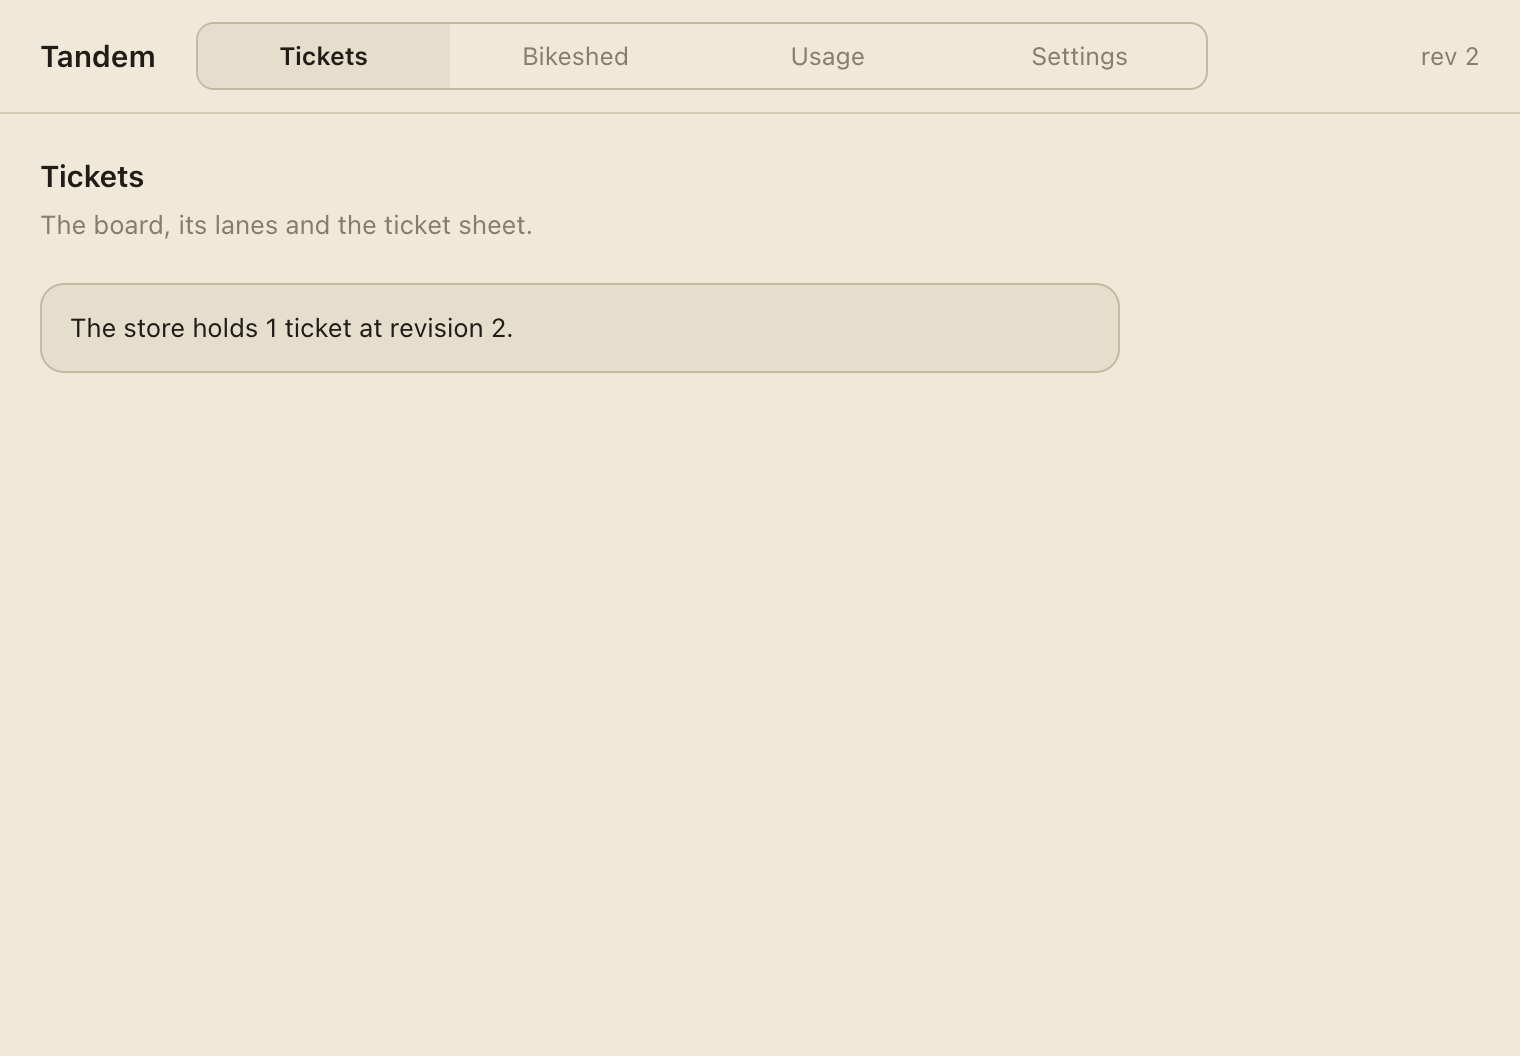
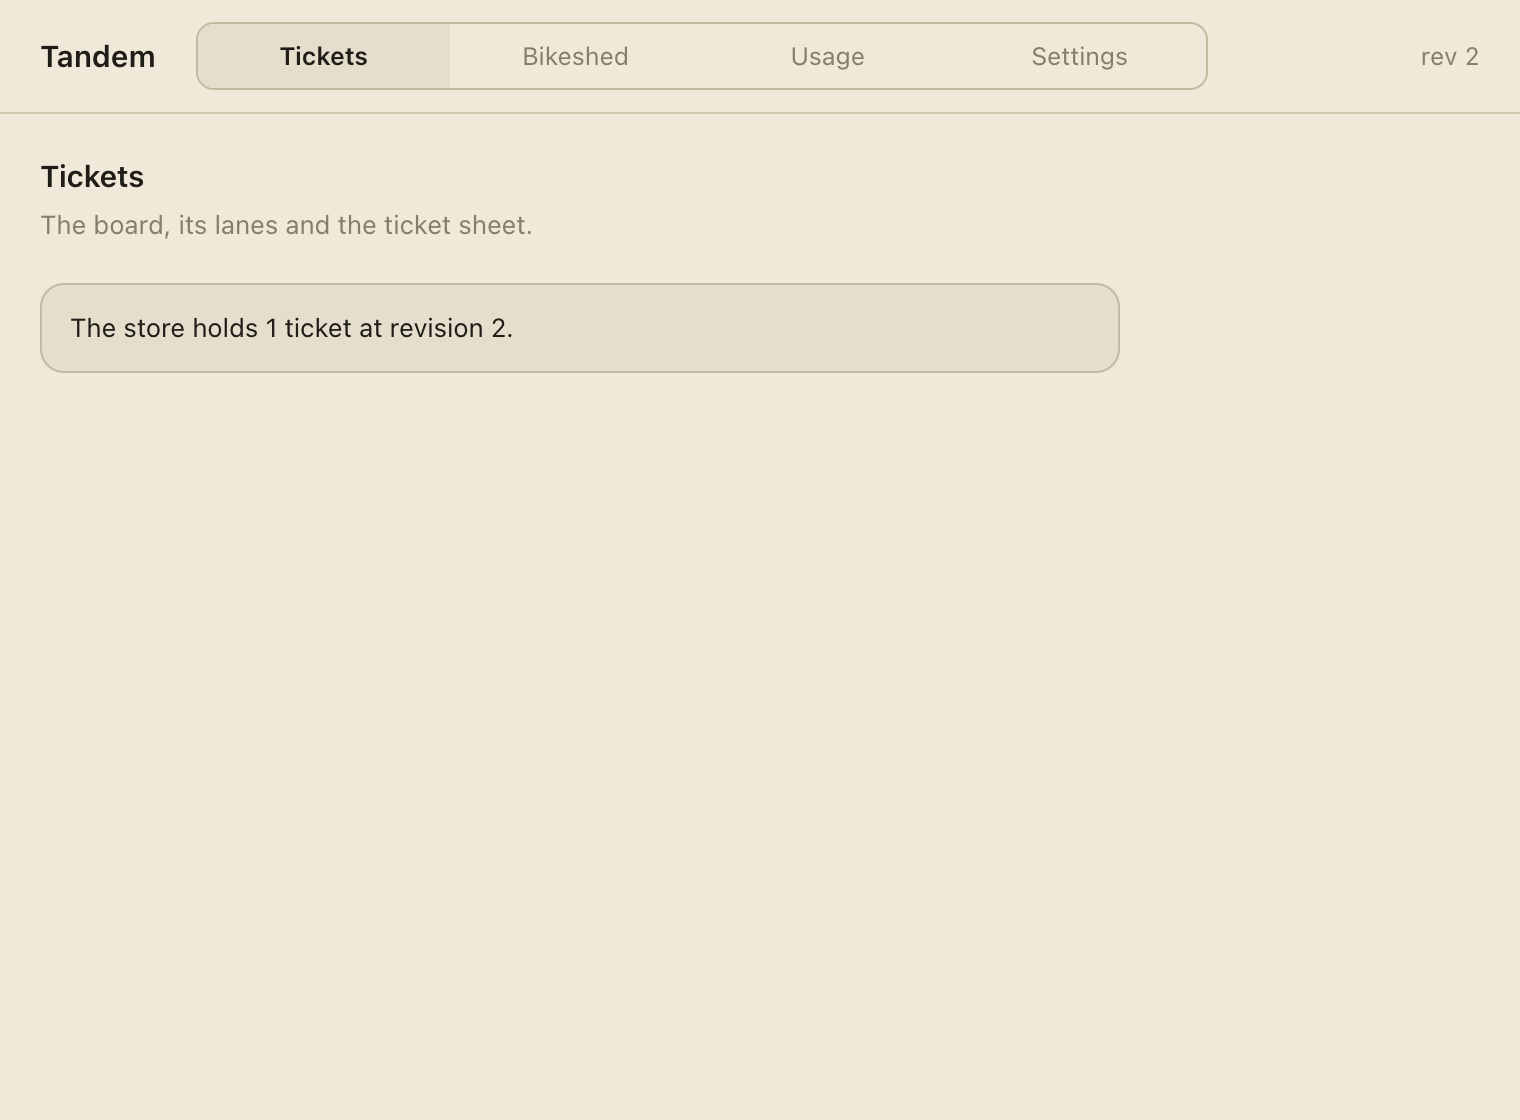
feat(shots): a Playwright suite photographs the real app
`npm run shots` builds the renderer, launches the Electron shell over the
workspace `tandem rpc` binary against the seeded home, asserts the scene and
writes its PNG. The shell's scene replaces the `TANDEM_SHOT` picture of the
window at the 760 pt floor, and its catalogue row is the run's own.

The window is the real one: one app per spec, content size at the floor, UTC
for anything that prints a local time. A deliberately broken selector fails
the spec, which is the red run this ticket asks for.

diff --git a/app/shots/app.ts b/app/shots/app.ts
@@ -1,0 +1,71 @@
+import { join } from 'node:path'
+
+import { _electron as electron, test as base, type Page } from '@playwright/test'
+
+import { seedPath } from './home'
+import { APP_ROOT, REPO_ROOT } from './roots'
+import type { Scene } from './scenes'
+
+/** The copy `globalSetup` seeds; the app never opens the committed home. */
+const SEEDED_HOME = seedPath(REPO_ROOT)
+
+function binaryPath(): string {
+  return join(REPO_ROOT, 'rust', 'target', 'debug', process.platform === 'win32' ? 'tandem.exe' : 'tandem')
+}
+
+/**
+ * A browser environment with the seed in it: the scratch home, the workspace
+ * binary, no `TANDEM_SHOT` (the spec drives the capture), and UTC, so a scene
+ * that prints a local time prints the same one on every machine.
+ */
+function seededEnv(): Record<string, string> {
+  const env: Record<string, string> = {}
+  for (const [key, value] of Object.entries(process.env)) {
+    if (value !== undefined) env[key] = value
+  }
+  delete env['ELECTRON_RENDERER_URL']
+  env['TANDEM_HOME'] = SEEDED_HOME
+  env['TANDEM_BIN'] = binaryPath()
+  env['TANDEM_SHOT'] = ''
+  env['TZ'] = 'UTC'
+  return env
+}
+
+/**
+ * One built app per spec, at the Swift window's 760 by 560 floor: the suite
+ * photographs the real shell over the real `rpc` child, not a mounted
+ * component. A spec asserts its scene and then calls `capture`.
+ */
+export const test = base.extend<{ window: Page }>({
+  window: async ({}, use) => {
+    const app = await electron.launch({
+      args: [
+        join(APP_ROOT, 'out', 'main', 'index.js'),
+        // The runner's container has no usable Chromium sandbox (app.yml).
+        ...(process.platform === 'linux' ? ['--no-sandbox'] : []),
+      ],
+      cwd: APP_ROOT,
+      env: seededEnv(),
+    })
+
+    try {
+      const window = await app.firstWindow()
+      await app.evaluate(({ BrowserWindow }) => {
+        BrowserWindow.getAllWindows()[0]?.setContentSize(760, 560)
+      })
+      await window.waitForSelector('.shell', { timeout: 30_000 })
+      await use(window)
+    } finally {
+      await app.close()
+    }
+  },
+})
+
+/** One scene, one PNG: the file the manifest names, as the spec asserted it. */
+export async function capture(window: Page, entry: Scene): Promise<void> {
+  await window.screenshot({
+    path: join(REPO_ROOT, 'docs', 'screenshots', entry.file),
+    animations: 'disabled',
+    caret: 'hide',
+  })
+}

diff --git a/app/tests/shots/shell.shots.ts b/app/tests/shots/shell.shots.ts
@@ -1,0 +1,21 @@
+import { expect } from '@playwright/test'
+
+import { capture, test } from '../../shots/app'
+import { scene } from '../../shots/scenes'
+
+/**
+ * The shell a human opens: the wordmark, the four kept tabs and the store
+ * revision the core answered over `rpc`, at the Swift window's floor.
+ */
+test('the shell at its 760 pt floor', async ({ window }) => {
+  await expect(window.locator('.shell__wordmark')).toHaveText('Tandem')
+
+  const tabs = window.locator('.tabs .tab')
+  await expect(tabs).toHaveCount(4)
+  await expect(tabs).toHaveText(['Tickets', 'Bikeshed', 'Usage', 'Settings'])
+  await expect(window.locator('.tabs .tab[aria-selected="true"]')).toHaveText('Tickets')
+
+  await expect(window.locator('.shell__revision')).toHaveText(/^rev \d+$/)
+
+  await capture(window, scene('shell'))
+})

diff --git a/app/playwright.config.ts b/app/playwright.config.ts
@@ -1,0 +1,21 @@
+import { defineConfig } from '@playwright/test'
+
+/**
+ * The screenshot suite (`docs/screenshots/README.md`, `docs/port.md`).
+ *
+ * One worker: every scene is one app and one picture, and the run's whole
+ * output is the committed catalogue, so scene order is the manifest's alone.
+ * `npm run shots` builds the renderer first; the rpc binary is `npm run
+ * binary` (CI builds it in its own step).
+ */
+export default defineConfig({
+  testDir: 'tests/shots',
+  testMatch: '**/*.shots.ts',
+  globalSetup: './shots/globalSetup.ts',
+  globalTeardown: './shots/globalTeardown.ts',
+  workers: 1,
+  timeout: 60_000,
+  expect: { timeout: 15_000 },
+  forbidOnly: process.env['CI'] !== undefined,
+  reporter: process.env['CI'] !== undefined ? [['github'], ['list']] : [['list']],
+})

diff --git a/app/shots/globalTeardown.ts b/app/shots/globalTeardown.ts
@@ -1,0 +1,18 @@
+import { rmSync } from 'node:fs'
+
+import { writeCatalogue } from './catalogue'
+import { seedPath } from './home'
+import { REPO_ROOT } from './roots'
+
+/**
+ * The catalogue is kept by the same run that takes the pictures, and the
+ * scratch home is dropped afterwards. A scene whose PNG is missing throws
+ * here, so a green run and a documented picture cannot disagree.
+ */
+export default function globalTeardown(): void {
+  try {
+    writeCatalogue({ repoRoot: REPO_ROOT })
+  } finally {
+    rmSync(seedPath(REPO_ROOT), { recursive: true, force: true })
+  }
+}

diff --git a/app/shots/globalSetup.ts b/app/shots/globalSetup.ts
@@ -1,0 +1,12 @@
+import { seedHome, seedPath, shotsSource } from './home'
+import { REPO_ROOT } from './roots'
+
+/**
+ * The run's seed, before any window opens: the named fixture home is checked
+ * against the rule and copied to the scratch path the specs read. A refusal
+ * here fails the whole run with no picture written.
+ */
+export default function globalSetup(): void {
+  const source = shotsSource(process.env, REPO_ROOT)
+  seedHome(source, seedPath(REPO_ROOT))
+}

diff --git a/docs/screenshots/README.md b/docs/screenshots/README.md
@@ -1,13 +1,42 @@
 # Screenshots
 
-The app, photographed. Each file is the running app's own window, captured in
-process (`NSApp.windows` → the key window → `cacheDisplay(in:to:)` → PNG) —
-`screencapture` has no Screen Recording permission on this Mac, so the app
-photographs itself instead.
+The app, photographed. Every picture here is the running app's own window,
+captured by a spec. `Scripts/shot.sh` photographs the Swift app and the
+Playwright suite photographs the port; the two never share a home.
 
-The tool is `Scripts/shot.sh` (with the small Objective-C rig it compiles and
-injects, `Scripts/shot.m`), and the script is the rule. No session hand-builds
-a rig; a picture is one command each:
+## The port's suite
+
+`app/tests/shots/*.shots.ts` is the rule: no session hand-builds a rig, and a
+picture is one scene of one spec. A run checks the home, copies it to a
+scratch seed, launches the built app at its 760 pt floor with `TZ=UTC`,
+asserts each scene, writes one PNG per scene into this folder, and rewrites the
+table below from `app/shots/scenes.ts`:
+
+    cd app
+    npm ci
+    npm run binary
+    TANDEM_SHOTS_HOME=../Fixtures/port/Home npm run shots
+
+`TANDEM_SHOTS_HOME` is required, and it must resolve under the repository's
+`Fixtures/`: a run that names no home is refused, and so is `~/.tandem` or any
+path outside `Fixtures/`. The app opens a scratch copy, never the committed
+home, so no run writes into the fixture. A failing spec fails the run, and the
+catalogue is rewritten only when every scene's picture exists, so a picture
+and its row cannot drift.
+
+CI runs the same command on the Linux runner under a virtual display
+(`.github/workflows/app.yml`), so a deliberately broken selector is a red job
+rather than a human reading a diff.
+
+| file | what it shows |
+| --- | --- |
+| `electron-shell.png` | the shell at its 760 pt floor: the wordmark, the four kept tabs (Tickets, Bikeshed, Usage, Settings) and the store revision read over `rpc` |
+
+## The Swift app, until the cutover
+
+The Swift app still ships until `v1.0.0` deletes it (`PRT-20`, `docs/port.md`),
+so its pictures are still taken by `Scripts/shot.sh` (with the Objective-C rig
+it compiles and injects, `Scripts/shot.m`), and this table is hand-kept:
 
     TANDEM_HOME=Fixtures/screenshots/Home Scripts/shot.sh list
     # pick a window id from the list, then:
@@ -15,21 +44,14 @@ a rig; a picture is one command each:
 
 `list` shows the running app's windows (id, size, title). The script refuses to
 run when `TANDEM_HOME` is unset or does not resolve to a home under the repo's
-own fixtures (`Fixtures/`) — never `~/.tandem`, never `~/.tandem-dev` — and it
+own fixtures (`Fixtures/`), so never `~/.tandem`, never `~/.tandem-dev`, and it
 refuses to photograph an app whose own environment is not pointed at that same
 fixture home. A refusal exits non-zero and writes nothing.
 
-`electron-shell.png` is the one exception: the port's Electron shell is not the
-Swift app, so `Scripts/shot.sh` cannot drive it. That picture is the shell's own
-in-process rig, `TANDEM_SHOT=<path.png> npm run dev` in `app/` against
-`Fixtures/port/Home`, spelled out in `app/README.md` and held to the same rule:
-a fixture home, the app's own capture, a refusal writes nothing.
-
 | file | what it shows |
 | --- | --- |
-| `electron-shell.png` | the port's Electron shell at its 760 pt floor: the wordmark, the four kept tabs (Tickets, Bikeshed, Usage, Settings) and the store revision read over `rpc` |
 | `tickets-tab.png` | the main window's **Tickets** tab: the quick-add, the Open/Done/All/Archived counts, the search field and the lane-grouped list |
-| `tickets-search-empty.png` | the same tab with a search that matches nothing — "No ticket title matches your search." |
+| `tickets-search-empty.png` | the same tab with a search that matches nothing: "No ticket title matches your search." |
 | `board.png` | the **Board** view: Status columns across, cycle lanes down, a ticket drawn where its Status and lane meet |
 | `ticket-sheet.png` | the ticket sheet: the title, the Status and lane, the description rendered from its markdown (headings, bullets, a code block), the ticket's comment log, and the composer the human writes in |
 | `ticket-sheet-source.png` | the same sheet with `Edit source` on: the stored markdown in the monospaced field, the toggle reading `Preview` |
@@ -38,12 +60,8 @@ a fixture home, the app's own capture, a refusal writes nothing.
 | `sessions-tab.png` | the main window's **Sessions** tab: the session records grouped by project, a `running` one and an `ended · succeeded` one |
 | `usage-tab.png` | the main window's **Usage** tab: the reported spend and the records' coverage, the ticket table's own arithmetic, the Day/Model/Agent/Ticket picker, and one ticket row rolled down to the records behind it |
 | `session-sheet.png` | a session record's sheet: the brief, the notes the session filed, the tickets it carried, and the times |
-| `session-sheet-ticket.png` | the **ticket sheet**, opened from a record's ticket — the record's own ticket link |
-| `session-note-open.png` | the **Bikeshed** face with the session's capture note open — the record's own note link |
+| `session-sheet-ticket.png` | the **ticket sheet**, opened from a record's ticket: the record's own ticket link |
+| `session-note-open.png` | the **Bikeshed** face with the session's capture note open: the record's own note link |
 
-Every file is shot against a scratch home (`TANDEM_HOME`) with fixture tickets and
-a fixture bikeshed — never a human's real list or real notes.
-
-The store behind them is a scratch home (`TANDEM_HOME`) with fixture tickets and
-four fixture session records, three of them carrying reported usage, not a human's
-real list.
+Every file is shot against a scratch home (`TANDEM_HOME`) with fixture tickets
+and a fixture bikeshed, never a human's real list or real notes.
